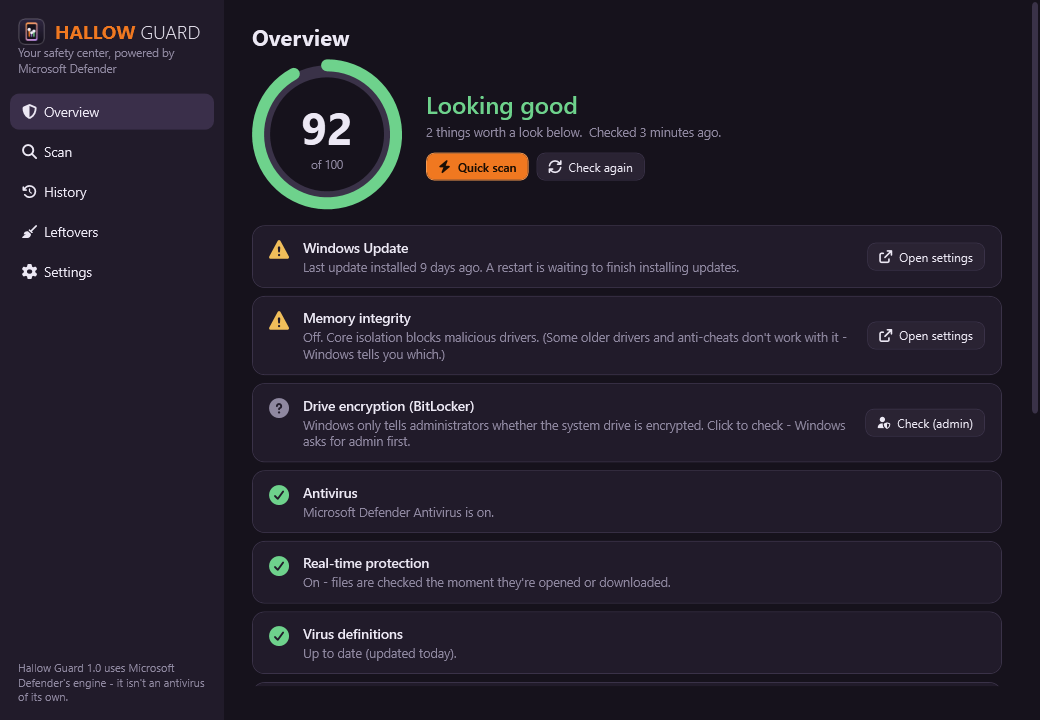
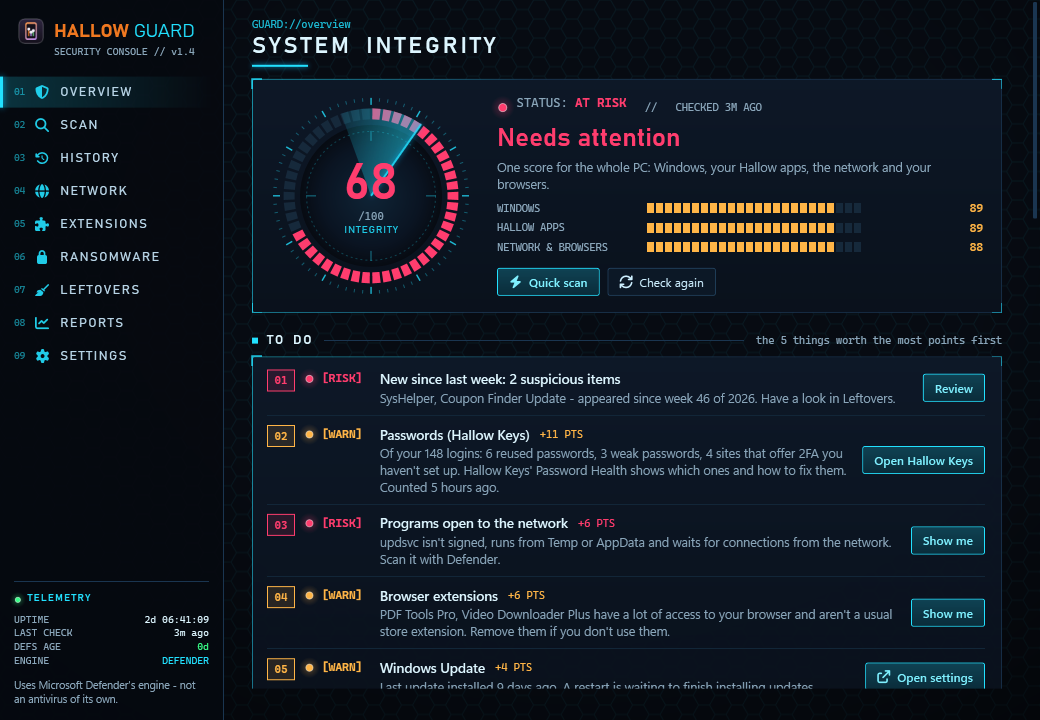
Hallow Guard card: 1.4 cyber look picture and bullet

diff --git a/index.html b/index.html
@@ -182,10 +182,11 @@
           <li>Quick, full, folder or drop-a-file scans by Defender - and Watch Downloads checks each new download</li>
           <li>Defender's threat history explained, and a leftover hunt for odd startup items, tasks and extensions</li>
           <li>Optional VirusTotal second opinion that sends only the file's fingerprint, never the file</li>
+          <li>A security-console look: radar score, live scan console and network map - or the classic look, your pick</li>
         </ul>
         <div class="links"><a href="https://github.com/Dom428/hallow-guard/releases/latest">Download</a><a href="https://github.com/Dom428/hallow-guard">More</a></div>
       </div>
-      <div class="shot"><img src="img/guard.png" alt="Hallow Guard's overview: a safety score of 92 with its checks" loading="lazy"></div>
+      <div class="shot"><img src="img/guard.png" alt="Hallow Guard's cyber overview: a radar safety score, segmented group scores and the to-do list (made-up data)" loading="lazy"></div>
     </div>
     <div class="app">
       <div>
